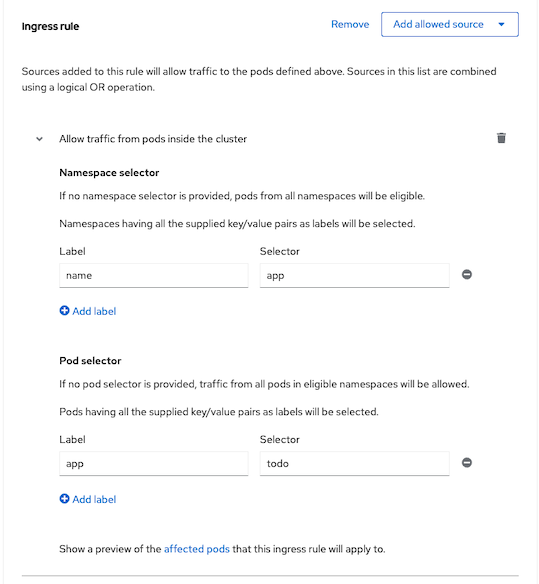
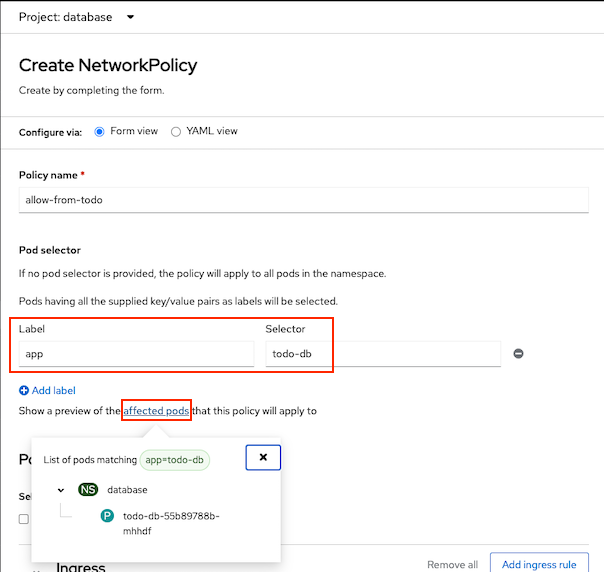
Update policy allow-from-todo with namespace selector and pod selector. Add allow-from-same-namespace

diff --git a/network-policy.md b/network-policy.md
@@ -18,6 +18,7 @@ oc create -f -
 cat manifests/todo-kustomize/base/todo.yaml|sed -r 's/(.*)(namespace:)(.+)/\1\2 app/'| \
 oc create -f -
 oc -n app set env deploy/todo quarkus.http.access-log.enabled=true
+oc wait --for condition=ready pod -l app=todo --timeout=300s -n app
 oc -n app set env deploy/todo quarkus.datasource.jdbc.url=jdbc:postgresql://todo-db.database.svc.cluster.local/todo
 oc wait --for condition=ready pod -l app=todo --timeout=300s -n app
 ```
@@ -26,9 +27,11 @@ oc wait --for condition=ready pod -l app=todo --timeout=300s -n app
 - Label namespace database for using in network policy
 
 ```bash
-oc label ns app tier=app name=app
+oc label ns app tier=api name=app
+oc label ns database tier=database name=database
 ```
-- Enable network policy audit log on namespace database. Audit log is located at */var/og/ovn/acl-audit-log.log* on node that pod run  
+
+- Enable network policy audit log on namespace database. Audit log is located at */var/log/ovn/acl-audit-log.log* on node that pod run  
 
 ```bash
 oc annotate ns database k8s.ovn.org/acl-logging='{"deny": "info","allow": "info"}'
@@ -40,6 +43,11 @@ oc annotate ns database k8s.ovn.org/acl-logging='{"deny": "info","allow": "info"
 oc create -f manifests/network-policy-deny-all.yaml -n database
 ```
 
+- Delete todo pod because network policy will not applied for already establised connection
+
+```bash
+oc delete po --all -n app
+```
 - Check status of application todo and its log.
 
 ```bash
@@ -47,28 +55,75 @@ NAME                    READY   STATUS    RESTARTS   AGE
 todo-8686ddf468-pfnbh   0/1     Running   0          21m
 ```
 
-Log will show connnection failed
+Check pod's log and you will find connnection failed
 
 ```bash
 2024-07-12 07:39:01,015 INFO  [io.sma.health] (vert.x-eventloop-thread-1) SRHCK01001: Reporting health down status: {"status":"DOWN","checks":[{"name":"Database connections health check","status":"DOWN","data":{"<default>":"Unable to execute the validation check for the default DataSource: Acquisition timeout while waiting for new connection"}}]}
 2024-07-12 07:43:30,127 WARN  [io.agr.pool] (agroal-11) Datasource '<default>': The connection attempt failed.
 2024-07-12 07:43:30,127 WARN  [io.agr.pool] (agroal-11) Datasource '<default>': Closing connection in incorrect state VALIDATION
 ```
+- Create policy to allow traffic from same namespace
+  
+  - Use CLI with [YAML file](manifests/network-policy-allow-from-same-namespace.yaml)
+   
+   ```bash
+   oc create -f manifests/network-policy-allow-from-same-namespace.yaml -n database
+   ```
 
-- Create policy to allow ingress traffic with condition namespace label name equals to app and pod with label name app equals to todo
+  - Use Administrator Console
+    - Navigate to Networking -> Network Policies and Select Create Create NetworkPolicy
+    - Select Ingress Policy with allow from same namespace and there is no need to config pod selector because we want to this rule to apply to all pods
+      
+      ![](images/network-policy-allow-all-from-same-namespace.png)
+
+
+- Create policy for allow ingress traffic to PostgreSQL pod in namespace database
+  
+  Applied to pod in namespace database with label
+  
+     | Label | Value |
+     |-----------|-------|
+     | app| todo-db |
+
+  Allow namespace with label
+  
+     | Label | Value |
+     |-----------|-------|
+     | name | app |
+     | tier| api |
+  
+  Allow only pod in above namespace with label
+  
+     | Label | Value |
+     |-----------|-------|
+     | app | todo |
+  
+
+
   - Use CLI with [YAML file](manifests/network-policy-allow-from-todo.yaml)
     ```bash
     oc create -f manifests/network-policy-allow-from-todo.yaml -n database
     ```
   - Use Administrator Console
     - Navigate to Networking -> Network Policies and Select Create Create NetworkPolicy
-    - Config ingress policy with namespace selector and pod selector
+    - Config pod selector for database namespace
       
+      Remark: Click *affected pod* to previews which pods will be affected by this rule
+
       ![](images/network-policy-ingress-rule-1.png)
     
-    - Config PostgreSQL port
+    - Config allow ingress traffic from namespace app
+      
       
       ![](images/network-policy-ingress-rule-2.png)
+    
+      - Config allow port
+      
+      ![](images/network-policy-ingress-rule-3.png)
+  
+- Check all network policies applied to namespace database
+  
+  ![](images/network-policy-namespace-database.png)
 
 - Check application todo log again.
 
@@ -93,7 +148,7 @@ Log will show connnection failed
   todo-db-85dff77b8b-gxrrh   1/1     Running   0          45m   10.132.0.30   cluster2-42cfa8e0-5zhxq   <none>           <none>
   ```
 
-- Check audit log on node that todb-db run
+- Check audit log on node which todb-db run by using command *oc debug/<NODE>* or with Administrator Console (Compute->Nodes). With both method you need to run comand *chroot /host* and log is located at */var/log/ovn/acl-audit-log.log*
   - Deny
   
   ```bash
